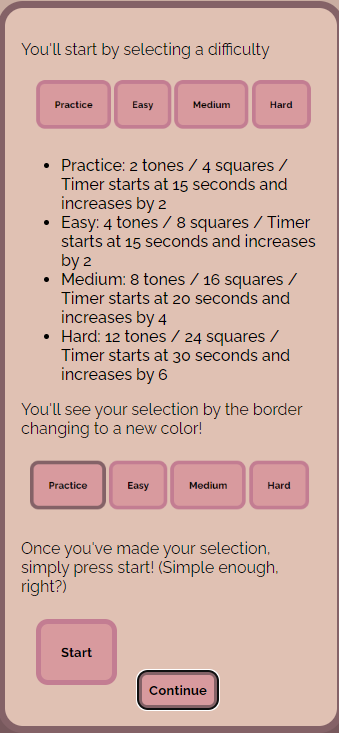
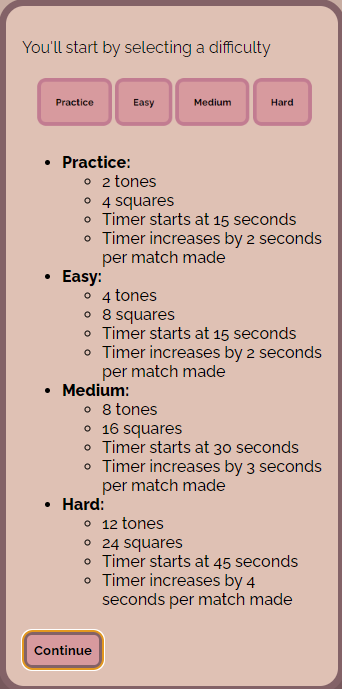
Updated instructions and readme. Cleaned up code.

diff --git a/JS/app.js b/JS/app.js
@@ -15,28 +15,25 @@ const bNote = new Audio("assets/audio/B.mp3")
 
 //Notes in each difficulty array
 const twoByTwoNotes = [cNote, cNote, cSharpNote, cSharpNote]
-
 const threeByThreeNotes = [cNote, cNote, cSharpNote, cSharpNote, dNote, dNote, dSharpNote, dSharpNote]
-
 const fourByFourNotes = [cNote, cNote, cSharpNote, cSharpNote, dNote, dNote, dSharpNote, dSharpNote, eNote, eNote, fNote, fNote, fSharpNote, fSharpNote, gNote, gNote]
-
 const fiveByFiveNotes = [cNote, cNote, cSharpNote, cSharpNote, dNote, dNote, dSharpNote, dSharpNote, eNote, eNote, fNote, fNote, fSharpNote, fSharpNote, gNote, gNote, gSharpNote, gSharpNote, aNote, aNote, aSharpNote, aSharpNote, bNote, bNote]
 
 /**********Variables**********/
-
 let userSelectionOne = null
 let userSelectionTwo = null
 
 /*********Cached DOM elements**********/
-
 //grabs the instruction dialog box one
 const instructionDialogOne = document.getElementById('instructionBoxOne')
 //grabs the instruction dialog box two
 const instructionDialogTwo = document.getElementById('instructionBoxTwo')
 //grabs the instruction dialog box three
 const instructionDialogThree = document.getElementById('instructionBoxThree')
-//grabs the instruction dialog box three
+//grabs the instruction dialog box four
 const instructionDialogFour = document.getElementById('instructionBoxFour')
+//grabs the instruction dialog box five
+const instructionDialogFive = document.getElementById('instructionBoxFive')
 //grabs the instruction button
 const instructionButton = document.querySelector('#instruction')
 //grab the win dialog box 
@@ -53,6 +50,8 @@ const closeInstructionButtonTwo = document.getElementById('continueButtonTwo')
 const closeInstructionButtonThree = document.getElementById('continueButtonThree')
 //grab the close button in the 4th instructions popup box
 const closeInstructionButtonFour = document.getElementById('continueButtonFour')
+//grabs the close button in the 5th instructions popup box
+const closeInstructionButtonFive = document.getElementById('continueButtonFive')
 //grabs the youLose dialog box
 const youLoseBox = document.getElementById('youLose')
 //grabs the button in the youLose dialog box
@@ -61,7 +60,7 @@ const loseButton = document.getElementById('loseButton')
 const checkBox = document.getElementById('instructionsCheckBox')
 //grabs all the buttons by class name
 const allTheButtons = document.querySelectorAll('.difficulty')
-//grab all elements by ID
+//grab all button elements by ID
 const twoByTwoButton = document.getElementById('practiceDifficulty')
 const threeByThreeButton = document.getElementById('easyDifficulty')
 const fourByFourButton = document.getElementById('mediumDifficulty')
@@ -81,9 +80,7 @@ const startButton = document.querySelector('#start')
 //grabs the timer 
 const timer = document.getElementById('timer')
 
-
 /**********Functions**********/
-
 //function restart button 
 function restart() {
     location.reload();
@@ -157,17 +154,18 @@ function closeInstructions() {
         instructionDialogTwo.showModal();
         instructionDialogOne.close();
     } else if (this.id === "continueButtonTwo") {
-            instructionDialogThree.showModal();
-            instructionDialogTwo.close();      
+        instructionDialogThree.showModal();
+        instructionDialogTwo.close();      
     } else if (this.id === "continueButtonThree") {
-            instructionDialogThree.close();
-            instructionDialogFour.showModal();
-    } else {
+        instructionDialogThree.close();
+        instructionDialogFour.showModal();
+    } else if (this.id === "continueButtonFour") {
         instructionDialogFour.close();
+        instructionDialogFive.showModal();
+    } else {
+        instructionDialogFive.close();
     }
 }
-
-
 
 function playGame() {
     startButton.classList.add('prevent');
@@ -175,9 +173,9 @@ function playGame() {
     if (twoByTwoButton.classList.contains('borderColor') || threeByThreeButton.classList.contains('borderColor')) {
         timeLeft = 15
     } else if (fourByFourButton.classList.contains('borderColor')) {
-        timeLeft = 20
-    } else {
         timeLeft = 30
+    } else {
+        timeLeft = 45
     }
     let timerId = setInterval(countdown, 1000)
     function countdown() {
@@ -197,9 +195,9 @@ function playGame() {
         if (twoByTwoButton.classList.contains('borderColor') || threeByThreeButton.classList.contains('borderColor')) {
             timeLeft += 2
         } else if (fourByFourButton.classList.contains('borderColor')) {
-            timeLeft += 4
+            timeLeft += 3
         } else {
-            timeLeft += 6
+            timeLeft += 4
         }
     }
     if (twoByTwoButton.id === 'practiceDifficulty' && twoByTwoButton.classList.contains('borderColor')) {
@@ -383,16 +381,10 @@ function checkIfGameShouldStart() {
     }
 }
 
-
-
-
 /**********Event Listeners**********/
-
 //forEach loop to iterate through the buttons and add an event listener and a function to each.
 allTheButtons.forEach(button => button.addEventListener('click', difficultyButtons))
 allTheButtons.forEach(button => button.addEventListener('touch', difficultyButtons))
-// allTheButtons.forEach(button => button.addEventListener('click', toggleColor))
-// allTheButtons.forEach(button => button.addEventListener('touch', toggleColor))
 //adds an event listener to the instructions button 
 instructionButton.addEventListener('click', toggleInstructions)
 instructionButton.addEventListener('touch', toggleInstructions)
@@ -408,6 +400,9 @@ closeInstructionButtonThree.addEventListener('touch', closeInstructions)
 //adds an event listener to the close button four
 closeInstructionButtonFour.addEventListener('click', closeInstructions)
 closeInstructionButtonFour.addEventListener('touch', closeInstructions)
+//adds an event listener to the close button five
+closeInstructionButtonFive.addEventListener('click', closeInstructions)
+closeInstructionButtonFive.addEventListener('touch', closeInstructions)
 //add an event listener to the start button
 startButton.addEventListener('click', checkIfGameShouldStart)
 startButton.addEventListener('touch', checkIfGameShouldStart)

diff --git a/index.html b/index.html
@@ -30,32 +30,59 @@
                     <p>You'll start by selecting a difficulty</p>
                     <img id="difficultyButtonsImg" src="assets/photos/difficulties.png" alt="photo of the difficulty section in the instructions page">
                     <ul>
-                        <li>Practice: 2 tones / 4 squares / Timer starts at 15 seconds and increases by 2</li>
-                        <li>Easy: 4 tones / 8 squares / Timer starts at 15 seconds and increases by 2</li>
-                        <li>Medium: 8 tones / 16 squares / Timer starts at 20 seconds and increases by 4</li>
-                        <li>Hard: 12 tones / 24 squares / Timer starts at 30 seconds and increases by 6</li>
+                        <li><span class="bold">Practice:</span> 
+                            <ul>
+                                <li>2 tones</li>
+                                <li>4 squares</li>
+                                <li>Timer starts at 15 seconds</li>
+                                <li>Timer increases by 2 seconds per match made</li>
+                            </ul> 
+                        <li><span class="bold">Easy:</span>
+                            <ul>
+                                <li>4 tones</li>
+                                <li>8 squares</li>
+                                <li>Timer starts at 15 seconds</li>
+                                <li>Timer increases by 2 seconds per match made</li>
+                            </ul> 
+                        <li><span class="bold">Medium:</span>
+                            <ul>
+                                <li>8 tones</li>
+                                <li>16 squares</li>
+                                <li>Timer starts at 30 seconds</li>
+                                <li>Timer increases by 3 seconds per match made</li>
+                            </ul> 
+                        <li><span class="bold">Hard:</span> 
+                            <ul>
+                                <li>12 tones</li>
+                                <li>24 squares</li>
+                                <li>Timer starts at 45 seconds</li>
+                                <li>Timer increases by 4 seconds per match made</li>
+                            </ul> 
                     </ul>
+                    <button id="continueButtonTwo" autofocus>Continue</button>
+                </dialog>
+                <dialog id ="instructionBoxThree">
                     <P>You'll see your selection by the border changing to a new color!</P>
                     <img id="difficultyButtonsWithObjectImg" src="assets/photos/difficltiesWithObjectSelected.png" alt="difficulty section with object selected">
                     <p>Once you've made your selection, simply press start! (Simple enough, right?)</p>
                     <img id="startButtonImg" src="assets/photos/startButton.png" alt="Start Button">
-                    <button id="continueButtonTwo" autofocus>Continue</button>
+                    <button id="continueButtonThree" autofocus>Continue</button>
                 </dialog>        
-                <dialog id="instructionBoxThree">
+                <dialog id="instructionBoxFour">
                     <p>Once "start" has been selected, a grid will appear based on the difficulty selected. The grid of choice will also contain boxes, and these boxes contain randomly generated notes. And it so happens that two of the boxes contain the same note. Find the two boxes that contain the same note, and they will disappear. Make the entire grid disappear, and you win!</p>
                     <img id="boardWithMissingObjectImg" src="assets/photos/boardWithMissingObject.png" alt="board with matched object">
                     <img id="emptyBoardImg" src="assets/photos/emptyBoard.png" alt="empty board">
                     <img id="youWinImg" src="assets/photos/youWon.png" alt="Winning screen">
-                    <button id="continueButtonThree" autofocus>Continue</button>
+                    <button id="continueButtonFour" autofocus>Continue</button>
                 </dialog>
-                <dialog id="instructionBoxFour">   
+                <dialog id="instructionBoxFive">   
                     <p> But how do we interact with the box, you ask? Just click or touch the box, and your first selection will change color and make a sound! The second selection will either produce a sound and stay there or produce a sound and disappear!</p>             
                     <p>Be careful! Remeber, there is a timer.<p>
                     <img id="timerImg" src="assets/photos/timer.png" alt="Timer with 15 seconds remaining">
                     <p>The grid must be solved before the timer runs out or you'll lose!</p>
                     <img id="youLoseImg" src="assets/photos/youLose.png" alt="Image of the losing screen">
                     <p>But most importantly of all, this game enforces tonal recognition, and it is not always easy! Learn and have fun!</p>
-                    <button id="continueButtonFour" autofocus>Let's Play!</button>
+                    <button id="continueButtonFive" autofocus>Let's Play!</button>
                 </dialog>
             </div>
         </section>

diff --git a/CSS/style.css b/CSS/style.css
@@ -94,6 +94,13 @@ ul {
     border-radius: 25px;
 }
 
+#instructionBoxFive {
+    width: 300px;
+    border: solid 7.5px #846267;
+    background-color: #E0C1B3;
+    border-radius: 25px;
+}
+
 #continueButtonOne {
     margin-top: 5px;
     background-color:#D89A9E;
@@ -119,6 +126,14 @@ ul {
 }
 
 #continueButtonFour {
+    margin-top: 5px;
+    background-color:#D89A9E;
+    border: solid 5px #846267;
+    padding: 7px;
+    border-radius: 10px;
+}
+
+#continueButtonFive {
     margin-top: 5px;
     background-color:#D89A9E;
     border: solid 5px #846267;

diff --git a/README.md b/README.md
@@ -36,6 +36,7 @@ The instructions are more interative read in the game and recommend reading ther
 ![html banner](assets/photos/instructionPageOne.png) 
 ![html banner](assets/photos/instructionPageTwo.png)
 ![html banner](assets/photos/instructionPageThree.png)
+![html banner](assets/photos/instructionPageFour.png)
 
 links to draft materials:
 1. [Pseudocode](assets/documents/Pseudocode.docx)
